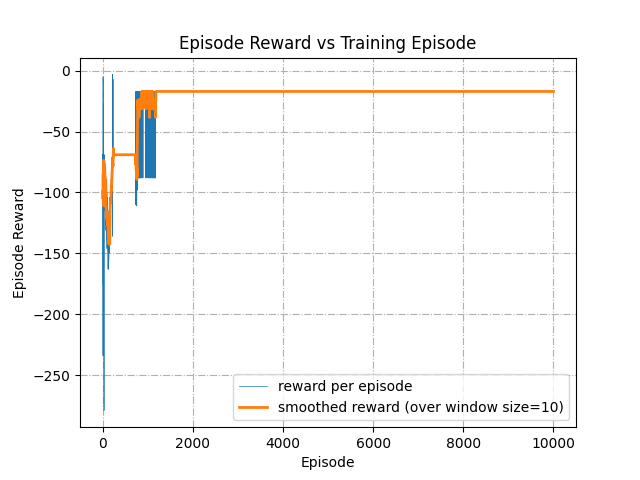
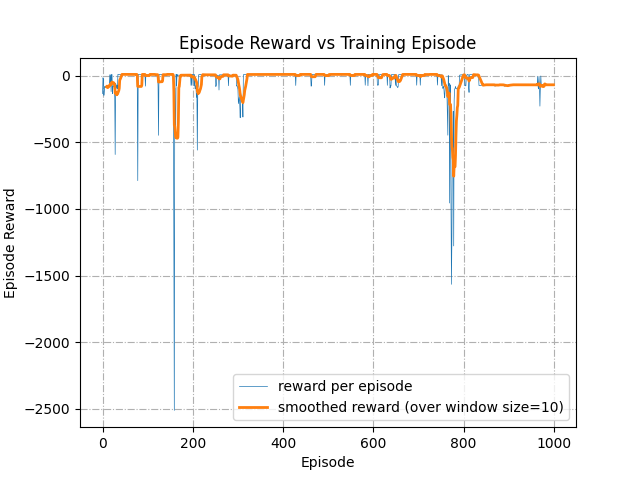
Updated DQN

diff --git a/DQN.py b/DQN.py
@@ -14,8 +14,10 @@ class DQN(nn.Module):
         super(DQN, self).__init__()
         self.fc = nn.Sequential(
             nn.Linear(input_dim, 128),
-            nn.ReLU(),
-            nn.Linear(128, output_dim)
+            nn.LeakyReLU(),
+            nn.Linear(128, 256),
+            nn.LeakyReLU(),
+            nn.Linear(256, output_dim)
         )
 
     def forward(self, x):
@@ -27,14 +29,19 @@ class DQNAgent:
         self.dqn = DQN(input_dim, output_dim)
         self.criterion = nn.MSELoss()
         self.optimizer = optim.Adam(self.dqn.parameters(), lr=lr)
+        self.epsilon_decay = 0.995
+        self.epsilon = 1.0
+        self.epsilon_min = 0.01
+        self.output_dim = output_dim
 
     def choose_action(self, state):
         state = torch.tensor(state, dtype=torch.float)
         if len(state.shape) == 1:
             state = torch.unsqueeze(state, 0)
+        if np.random.rand() <= self.epsilon:
+            return random.randrange(self.output_dim)
         q_values = self.dqn(state)
-        action = torch.argmax(q_values, dim=1)
-        return action.item()
+        return np.argmax(q_values.detach().numpy())
 
     def learn(self, state, action, reward, next_state, done):
         state = torch.tensor(state, dtype=torch.float)
@@ -49,7 +56,8 @@ class DQNAgent:
             action = torch.unsqueeze(action, 0)
             done = (done, )
 
-        # Compute Q(s, a) - the model computes Q(s), then we select the columns of actions taken
+        # Compute Q(s, a) - the model computes Q(s),
+        # then we select the columns of actions taken
         q_values = self.dqn(state)
         q_value = q_values.gather(1, action.unsqueeze(1)).squeeze(1)
 
@@ -68,18 +76,22 @@ class DQNAgent:
         loss.backward()
         self.optimizer.step()
 
+        # Decay epsilon
+        if self.epsilon > self.epsilon_min:
+            self.epsilon *= self.epsilon_decay
+
 
 if __name__ == "__main__":
     random.seed(1)
     np.random.seed(1)
 
-    n_steps = 10000
+    n_steps = 1000
     RANDOM_RUNS = 5
     results = collections.defaultdict(list)
 
     for _ in range(RANDOM_RUNS):
         env = SmoothCrosswalkEnv(CONFIG)
-        agent = DQNAgent(env.observation_space.shape[0], env.action_space.n, lr=0.001)
+        agent = DQNAgent(env.observation_space.shape[0], env.action_space.n, lr=0.01)
 
         total_rewards = []
         for episode in range(n_steps):
